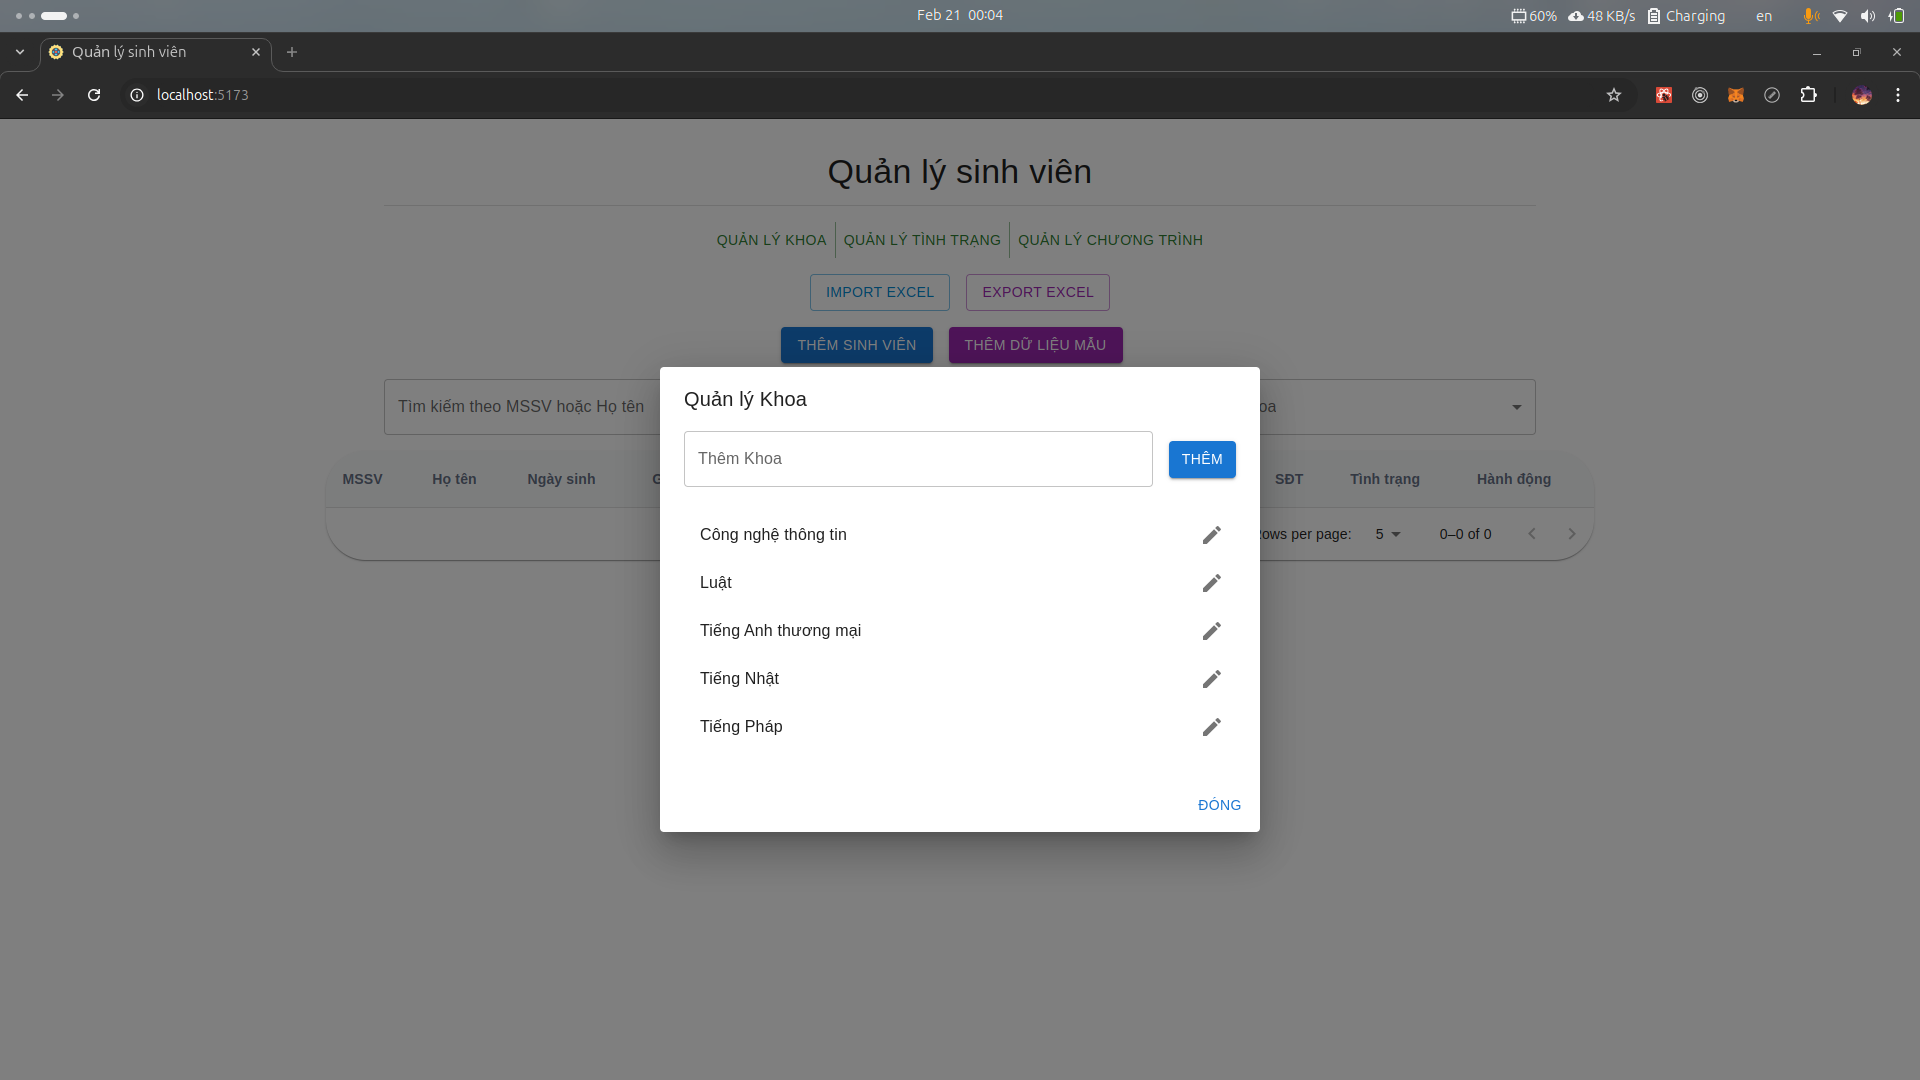
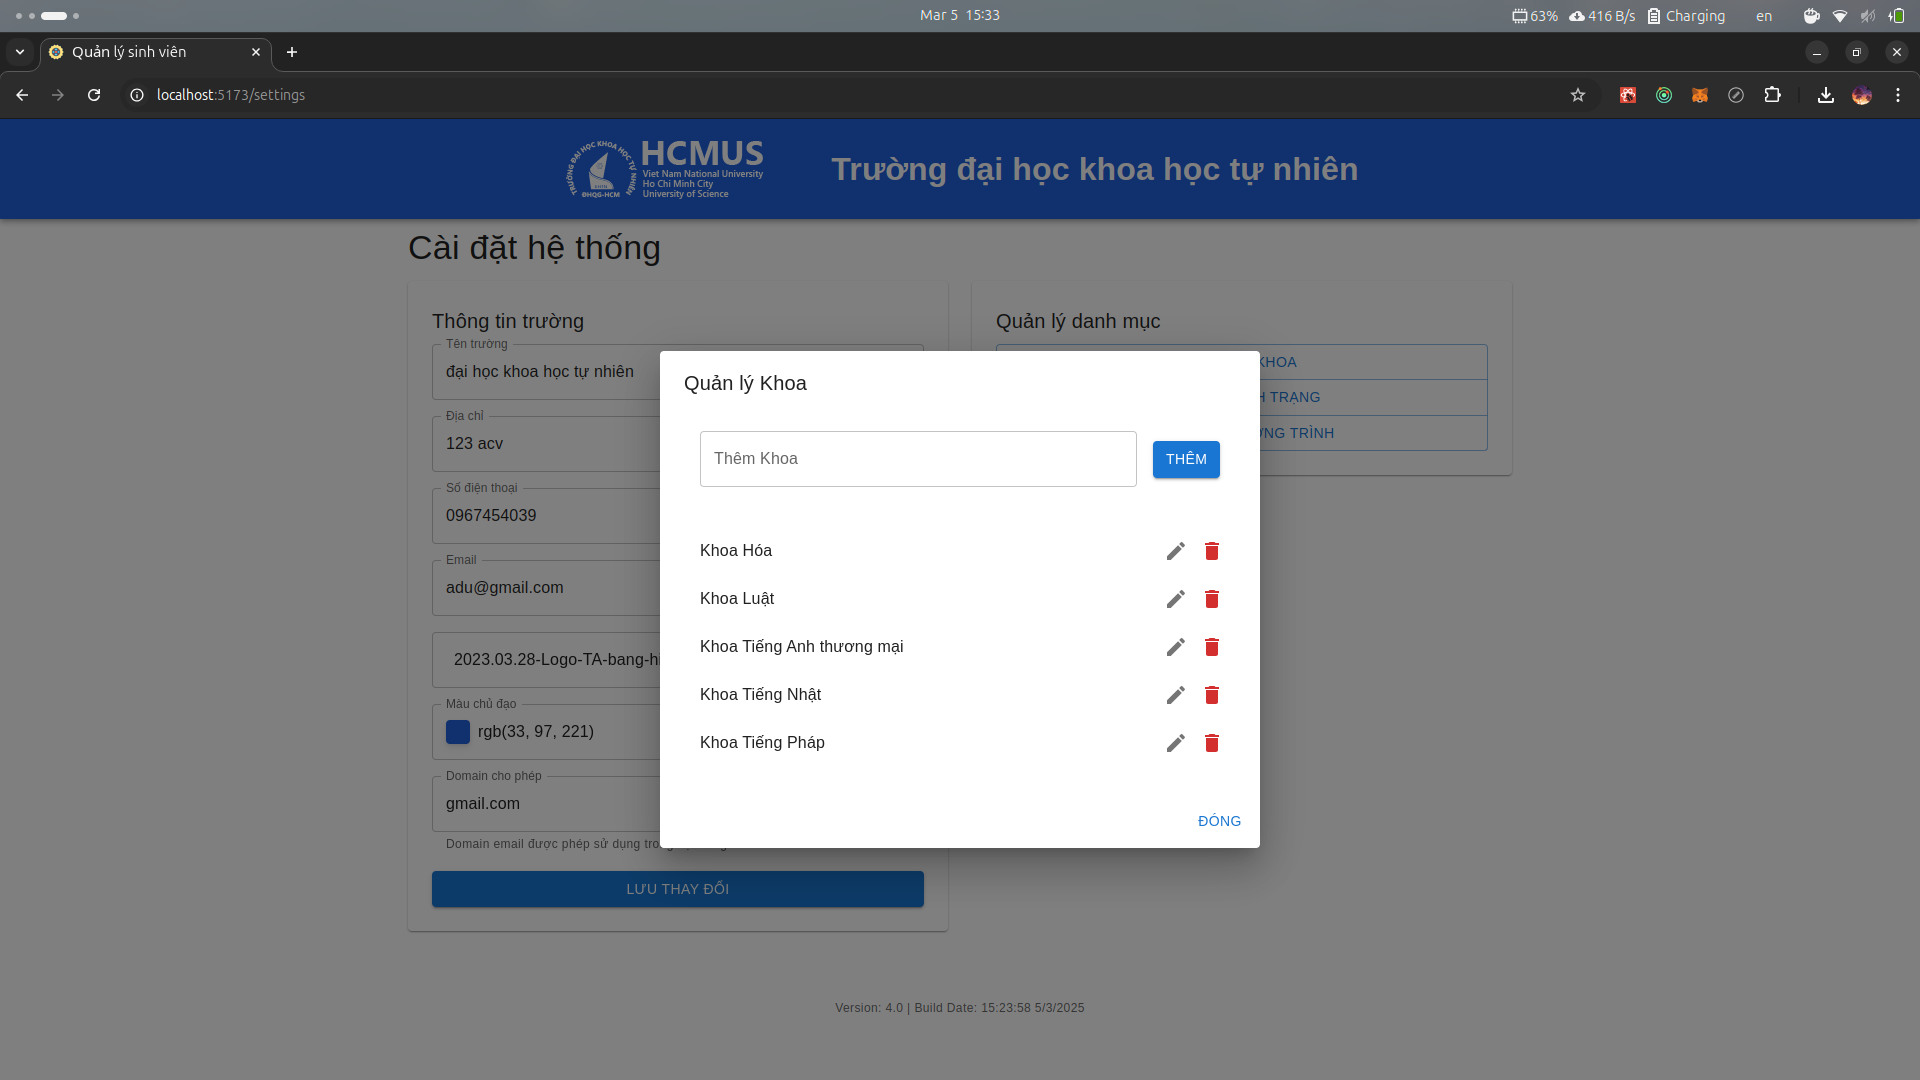
Update README and package version to 4.0; introduce new features including Cloudinary image storage, school configuration management, and student verification document generation.

diff --git a/README.md b/README.md
@@ -1,66 +1,70 @@
-# Student Management Web Application - Version 3.0
+# Student Management Web Application - Version 4.0
 
-This is a lightweight web application built with NestJS, Prisma, React, and SQLite for managing a list of students. Version 3.0 introduces stricter validation rules and configurable constraints to ensure data consistency and improve business logic enforcement.
+This is a lightweight web application built with NestJS, Prisma, React, and PostgreSQL for managing a list of students. Version 4.0 introduces stricter validation rules and configurable constraints to ensure data consistency and improve business logic enforcement.
 
-## New Features in Version 3.0
+## New Features in Version 4.0
 
-### 1. MSSV Uniqueness
-
-- **Requirement:**  
-  The student MSSV must be unique.
-- **Implementation:**  
-  When creating or updating a student, the system checks if the provided MSSV already exists. If so, it rejects the request.
-
-### 2. Configurable Email Domain Validation
+### 1. Cloud Image Storage with Cloudinary
 
 - **Requirement:**  
-  The student's email must belong to a specified domain (e.g., `@student.university.edu.vn`).
+  Store school logo images in the cloud to ensure availability and scalability.
 - **Implementation:**  
-  The allowed email domain is configurable via environment variables.
+  Utilize Cloudinary for image storage and management, featuring:
+  - Direct image upload to Cloudinary
+  - Automatic image optimization
+  - Secure and globally accessible URLs
 
-### 3. Configurable Phone Number Validation
+### 2. School Configuration Management
 
-- **Requirement:**  
-  Phone numbers must be valid for the country (e.g., Vietnam).
-- **Implementation:**  
-  A regular expression validates the phone number in both local and international formats (e.g., `0[3|5|7|8|9]xxxxxxxx` or `+84[3|5|7|8|9]xxxxxxxx`).
+- **Dynamic School Settings:**
+  - Manage school information (name, address, logo, colors)
+  - Configure allowed email domains
+  - Customize interface based on configuration
 
-### 4. Student Status Transition Rules
+### 3. Student Verification PDF/MD Generation
 
-- **Requirement:**  
-  The student's status can only change following certain rules:
-  - If the current status is `"Đang học"`, it may change only to `"Bảo lưu"`, `"Tốt nghiệp"`, or `"Đình chỉ"`.
-  - If the current status is `"Đã tốt nghiệp"`, it cannot revert to `"Đang học"`.
-- **Implementation:**  
-  The update service enforces these rules when processing status updates.
+- **Feature:**
+  - Generate official student verification documents
+  - Customizable templates with school branding
+  - Support for multiple verification purposes
+  - Digital format for easy sharing and printing
+
+### 4. Student Deletion with Time Constraint
+
+- **Feature:**
+  - Delete students with a configurable time constraint
+  - Prevent deletion of students who have been added recently
+
+### 5. School Logo and Name Display
+
+- **Feature:**
+  - Display school logo and name in the application
+  - Customize the display based on configuration
 
 ## Additional Enhancements
 
-- **Improved Data Import/Export:**
-  - Supports importing data from both Excel and CSV formats.
-  - Handles Excel serial dates (e.g., `37165.29201388889`) by converting them to proper DateTime values.
-  - Ensures Unicode text (e.g., Vietnamese characters) is correctly decoded.
-- **Prisma & NestJS Integration:**  
-  Uses Prisma as the ORM with SQLite as the database and leverages NestJS's modular architecture for improved maintainability and testability.
-- **Dynamic Configuration:**  
-  Environment variables (via the ConfigModule) allow dynamic configuration of allowed email domain and other validation parameters.
-- **Validation & Error Handling:**  
-  DTOs enforce strict validation rules for MSSV, email, and phone number formats.
-- **Global Validation:**  
-  The global `ValidationPipe` ensures that all incoming requests conform to the defined DTOs before reaching the controllers.
+### 1. PostgreSQL Database
+
+- **Feature:**
+  - Use PostgreSQL as the database
+  - Implement Prisma ORM for database operations
+  - Provide sample data for testing
+
+### 2. Banner Color Customization
+
+- **Feature:**
+  - Customize the banner color based on configuration
 
 ## Screenshots
 
 ![Main Screen](./screenshots/main-screen.png)
 ![Add Student Screen](./screenshots/add-student-screen.png)
-![Add Error Screen](./screenshots/add-error-screen.png)
-![Main Student Screen](./screenshots/main-student-screen.png)
-![Find Student By Faculty Screen](./screenshots/find-by-faculty-screen.png)
-![Find Student By Faculty and Name Screen](./screenshots/find-by-fandn-screen.png)
 ![Category Management Screen](./screenshots/category-management-screen.png)
-![Add Category Screen](./screenshots/add-category-screen.png)
-![Edit Category Screen](./screenshots/edit-category-screen.png)
-![Import Excel Screen](./screenshots/import-excel-screen.png)
+![Export Student Verification Screen](./screenshots/export-student-verification-screen.png)
+![Export Student Verification Options](./screenshots/export-student-verification-options.png)
+![Student Verification Pdf](./screenshots/student-verification-pdf.png)
+![Settings Screen](./screenshots/settings-screen.png)
+![Input Settings Screen](./screenshots/input-settings-screen.png)
 
 ## Source Code Structure
 
@@ -70,6 +74,11 @@ student-management/
 ├── src/
 │   ├── components/     # UI components
 │   ├── hooks/          # Custom hooks
+│   ├── pages/          # Pages
+│   ├── services/       # RTK Query services
+│   ├── app/            # Redux Toolkit store, provider, and hooks
+│   ├── features/       # Feature modules
+│   ├── middleware/     # Middleware
 │   ├── App.tsx         # Main application component
 │   ├── main.tsx        # Application entry point
 │   ├── types.d.ts      # Data types
@@ -82,6 +91,10 @@ student-management/
 │   │   ├── faculty     # Faculty controller and service
 │   │   ├── program     # Program controller and service
 │   │   ├── status      # Student status controller and service
+│   │   ├── config      # School configuration controller and service
+│   │   ├── upload      # Upload controller and service
+│   │   ├── data        # Data controller and service
+│   │   ├── logger      # Logger controller and service
 │   │   ├── main.ts     # Main server file
 │   ├── .env            # Environment variables
 │   ├── .env.example    # Example environment variables
@@ -145,7 +158,10 @@ Access the app at `http://localhost:5173`
 Add a `.env` file in the `backend/` folder with the following content:
 
 ```plaintext
-ALLOWED_EMAIL_DOMAIN=your.email.domain
+DATABASE_URL=your_postgresql_database_url
+CLOUDINARY_CLOUD_NAME=your_cloud_name
+CLOUDINARY_API_KEY=your_api_key
+CLOUDINARY_API_SECRET=your_api_secret
 ```
 
 Run Prisma migrations and seed initial data:
@@ -217,3 +233,33 @@ All backend operations are logged using Winston. The log files are stored in the
 
 - **Global Validation:**
   All incoming data is validated by a global validation pipe before being processed.
+
+## Environment Configuration
+
+Add the following environment variables to your `.env` file:
+
+```plaintext
+DATABASE_URL=your_postgresql_database_url
+CLOUDINARY_CLOUD_NAME=your_cloud_name
+CLOUDINARY_API_KEY=your_api_key
+CLOUDINARY_API_SECRET=your_api_secret
+```
+
+## File Upload Guidelines
+
+### Supported Image Formats
+
+- JPG/JPEG
+- PNG
+- GIF
+
+### Size Limits
+
+- Maximum file size: 5MB
+- Recommended dimensions for logo: 200x200px
+
+### Security
+
+- Automatic file type validation
+- Secure URL generation
+- Cloud storage with backup
